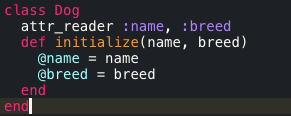
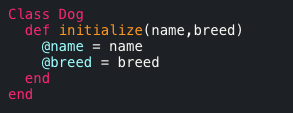
add content of blog post

Changed region(s): [[0.0, 0.0265, 0.866, 0.9823]]

diff --git a/blog/JavaScript.html b/blog/JavaScript.html
@@ -31,31 +31,54 @@
         <h2>DBC Phase 0 Week 7</h2>
         <h3>January 23, 2015</h3>
       </header>
-      <img class = "post-img" src="../imgs/blank.jpg" alt = "image will go here">
       <div class = "blog-text">
         <p class = "tab">
-        Lorem ipsum dolor sit amet, consectetur adipiscing elit. Suspendisse lacinia urna vulputate accumsan dapibus. Maecenas aliquam suscipit libero, ac imperdiet ipsum eleifend eget. Integer vel nisi tincidunt, tincidunt turpis nec, convallis orci. Duis tellus dui, mattis quis sollicitudin id, dapibus eu odio. Donec sed arcu vitae ipsum ultrices elementum vel sed velit. Quisque ac tempus diam. Morbi sollicitudin urna nec dolor suscipit venenatis finibus sit amet turpis. Nam velit urna, bibendum et mauris in, semper tristique purus. Nam vulputate metus ipsum, sed aliquam enim ullamcorper in. Curabitur vitae sollicitudin magna, quis rhoncus metus.
+        When learning a new programming language, it can be helpful to draw parallels to languages you are already familiar with, and to identify the similarities/differences. Here we will compare Ruby classes to JavaScript contructor functions. They are both used to create "objects". However, the idea of an object is different in Ruby vs. JavaScript. In Ruby, everything is an object-strings, arrays, methods, even classes- you name it, and it is an object. Classes are then used as a blueprint to create instances of an object of a certain type. In JavaScript, objects are more analogous to Ruby's hashes. Essentially, they are a way to store properties in the form of key/value pairs, and they are their own distinct data type. Constructors are also used as a blueprint to create objects of a certain type.
+        <br><br>
+        <p class = "tab">
+        Let's look at what class declaration in Ruby looks like, versus constructor declaration in JavaScript. Both of the following pieces of code will allow you to create a Dog object.
         </p>
-        <p class = "tab">Pellentesque laoreet lacus non ipsum pulvinar dignissim. Praesent libero odio, venenatis sed magna vel, pharetra vehicula augue. Proin dictum enim vitae mi sodales eleifend quis in dolor. Nam nec nibh non justo bibendum tincidunt. Aenean fringilla, velit a pharetra iaculis, eros lorem semper elit, quis sodales quam magna eget est. Donec lobortis elementum imperdiet. Proin mattis pretium metus in gravida. Nulla sagittis a sem id interdum. Quisque ut ligula in eros rutrum sollicitudin. Curabitur vel justo condimentum, aliquam urna eget, porttitor mi. Pellentesque at interdum leo. Vestibulum molestie erat elit, vel mollis libero venenatis ac. Pellentesque suscipit commodo lorem, nec lobortis nunc faucibus in. Aenean eu ligula sed magna mattis tempus.
+        <table>
+          <tr>
+            <th>Ruby Class</th>
+            <th>JavaScript Constructor</th>
+          </tr>
+          <tr>
+            <td>
+              <img class = "tab" src="../imgs/methods.png" alt = "class code">
+            </td>
+            <td>
+              <img class = "tab" src="../imgs/constructor.png" alt = "constructor code">
+            </td>
+          </tr>
+
+        </table>
+        <p class = "tab">
+        Here you can see that the constructor function is similar to the initialize method within a constructor. Both are used to assign variables to that particular Dog object, and to give them the values that are passed in. However, the assignment is a bit different. Ruby uses the <code>@</code> symbol to sygnify that these are instance variables. JavaScript on the other hand uses the keyword <code>this</code> which is used to refer to the current object you are constructing.
         </p>
         <p class = "tab">
-        Integer varius auctor nisl eget efficitur. Praesent quis faucibus odio. Donec tempor id orci sit amet elementum. Donec nunc nisl, gravida non convallis vitae, euismod et nibh. Sed in ultricies odio, id rhoncus dolor. In hac habitasse platea dictumst. Cras volutpat consequat dolor non ornare. Pellentesque ac risus ultricies, luctus turpis nec, placerat nibh. Duis molestie velit et odio maximus, at rutrum libero egestas. Curabitur eleifend ornare neque. Maecenas sit amet volutpat lacus, ut pretium tellus. Sed imperdiet, nisl scelerisque finibus ullamcorper, nisi ligula interdum nunc, eu interdum dui nunc in nulla.
+        You can also see one of the differences between the two. A Ruby class will also usually include methods for that object type. When you create a new Dog object in Ruby, you will also be able to use the <code>info</code>, <code>talk</code>, and <code>play</code> methods on it. This is technically allowed in JavaScript as well-you can add a property to the Dog constructor that is a function, however this is not recommended in most cases. If a function is included in a constuctor, it is re-declared each time you use the constructor to create a new object, which can cause memory issues down the line. What you want to do is declare a function once, and then have it associated with any object of that type-this is done through prototypes. Prototypes are a bit beyond the scope of this post, but I suggest you look into it if interested.
         </p>
         <p class = "tab">
-        Vestibulum sit amet augue id lacus vehicula porttitor sit amet quis est. Nullam cursus eu mi sed fringilla. Nunc urna turpis, pharetra ornare erat at, laoreet vulputate enim. Morbi metus augue, sagittis consectetur ipsum in, elementum varius magna. Morbi dapibus sagittis porta. Praesent ac gravida risus. Ut sit amet dolor sagittis, aliquet tortor at, ultrices orci. Etiam vel nulla lacinia, tempus dui nec, scelerisque lectus. Phasellus blandit sed nibh et congue. Maecenas nisl dolor, eleifend quis nisl quis, consectetur facilisis libero. Ut est enim, semper eu quam pharetra, molestie venenatis purus.
+        Another difference is the way you declare a new object after defining a class in Ruby or a constructor in JavaScript. The code below demonstrates how to to it in each language.
         </p>
-        <p class = "tab">
-        Proin aliquet erat cursus lectus condimentum, ultrices interdum felis dignissim. Donec et pretium dui. Duis venenatis interdum eros non tempor. Nulla id luctus lacus. Duis sodales semper elit id vestibulum. In sed est arcu. Donec arcu libero, placerat a ultricies vel, sollicitudin eu est. In scelerisque nibh non molestie auctor. Aenean sed tristique tellus, nec mattis justo. Donec eget eros lorem.
-        </p>
-        <p class = "tab">
-        In sollicitudin lacus in odio luctus pharetra. Morbi id sapien sed ante ullamcorper lacinia. Morbi sed orci sed tellus varius consequat venenatis et justo. Aenean sapien odio, condimentum a sagittis ac, sodales nec neque. Pellentesque fringilla laoreet tortor sit amet mollis. Duis viverra metus id lorem dignissim, et tristique nulla sollicitudin. Class aptent taciti sociosqu ad litora torquent per conubia nostra, per inceptos himenaeos. Duis sodales at orci at venenatis. Fusce aliquet, neque in maximus eleifend, libero leo ornare nunc, sed commodo elit ligula in ante. Ut dolor leo, sodales sit amet bibendum vitae, dictum ac augue. Pellentesque gravida magna facilisis dolor condimentum feugiat. Vestibulum nulla quam, finibus vel velit sit amet, tempor semper magna. Quisque luctus posuere ipsum quis suscipit. Aliquam ac metus faucibus, consequat arcu vel, iaculis libero. Aenean quis nisi a metus egestas pulvinar vitae non arcu.
-        </p>
-        <p class = "tab">
-        Suspendisse volutpat eleifend varius. Donec gravida porttitor nunc at aliquet. Nunc fermentum facilisis elit, eu egestas orci ultricies vitae. Pellentesque interdum, urna nec maximus pellentesque, mauris ipsum consectetur tellus, ullamcorper tristique quam orci et leo. Fusce ac mauris ut est aliquet tempor non ut justo. Sed posuere tristique augue, ut posuere ipsum bibendum et. Proin neque leo, cursus eu est vitae, pellentesque consequat nibh. Donec condimentum risus non mi posuere cursus. Sed vehicula vehicula ante id cursus. Maecenas consequat tempor sagittis.
-        </p>
-        <p class = "tab">
-        Donec condimentum ante non dictum finibus. Sed nec ligula non lorem scelerisque eleifend. Vivamus mattis feugiat odio eget varius. Mauris vitae cursus purus. Praesent rhoncus libero et fermentum efficitur. Nullam condimentum risus et quam faucibus, a hendrerit eros rutrum. Mauris fermentum nibh quis augue porta varius. Cras et ex a libero tempor hendrerit a non libero. Proin vulputate est sollicitudin congue condimentum. Vivamus pulvinar, odio quis semper laoreet, felis ipsum fermentum eros, nec elementum tellus dolor a justo. Fusce ultrices orci at lacinia posuere. Sed sit amet volutpat felis.
-        </p>
+        <table>
+          <tr>
+            <th>Ruby</th>
+            <th>JavaScript</th>
+          </tr>
+          <tr>
+            <td>
+              <img class = "tab" src="../imgs/new_Ruby.png" alt = "new object code">
+            </td>
+            <td>
+              <img class = "tab" src="../imgs/new_JS.png" alt = "new object code">
+            </td>
+          </tr>
+
+        </table>
+
+
       </div>
       <!-- <footer>
         <a href = "#">tag 1</a>

diff --git a/stylesheets/blog.css b/stylesheets/blog.css
@@ -12,32 +12,30 @@ article{
   background-color: #fdfdfd;
   position: absolute;
   margin: 200px;
+  font-family: 'Open Sans', sans-serif;
 }
 article header{
   padding:25px;
 }
 article h1{
-  font-family: 'Open Sans', sans-serif;
   font-size: 30px;
   color: #0B1D26;
   margin: 0px;
 }
 article h2{
-  font-family: 'Open Sans', sans-serif;
   font-size: 15px;
   color: #0B1D26;
   margin: 0px;
   padding-left: 5px;
 }
 article h3{
-  font-family: 'Open Sans', sans-serif;
   font-size: 12px;
   color: #0B1D26;
   margin: 0px;
   padding-left: 5px;
 }
 article p{
-  font-family: 'Open Sans', sans-serif;
+
   font-size: 14px;
 }
 .blog-text{
@@ -45,6 +43,12 @@ article p{
 }
 .tab{
   padding-left: 30px;
+}
+td{
+  vertical-align: top;
+}
+td img{
+  max-width: 500px;
 }
 article footer{
   background-color: #fdfdfd;
